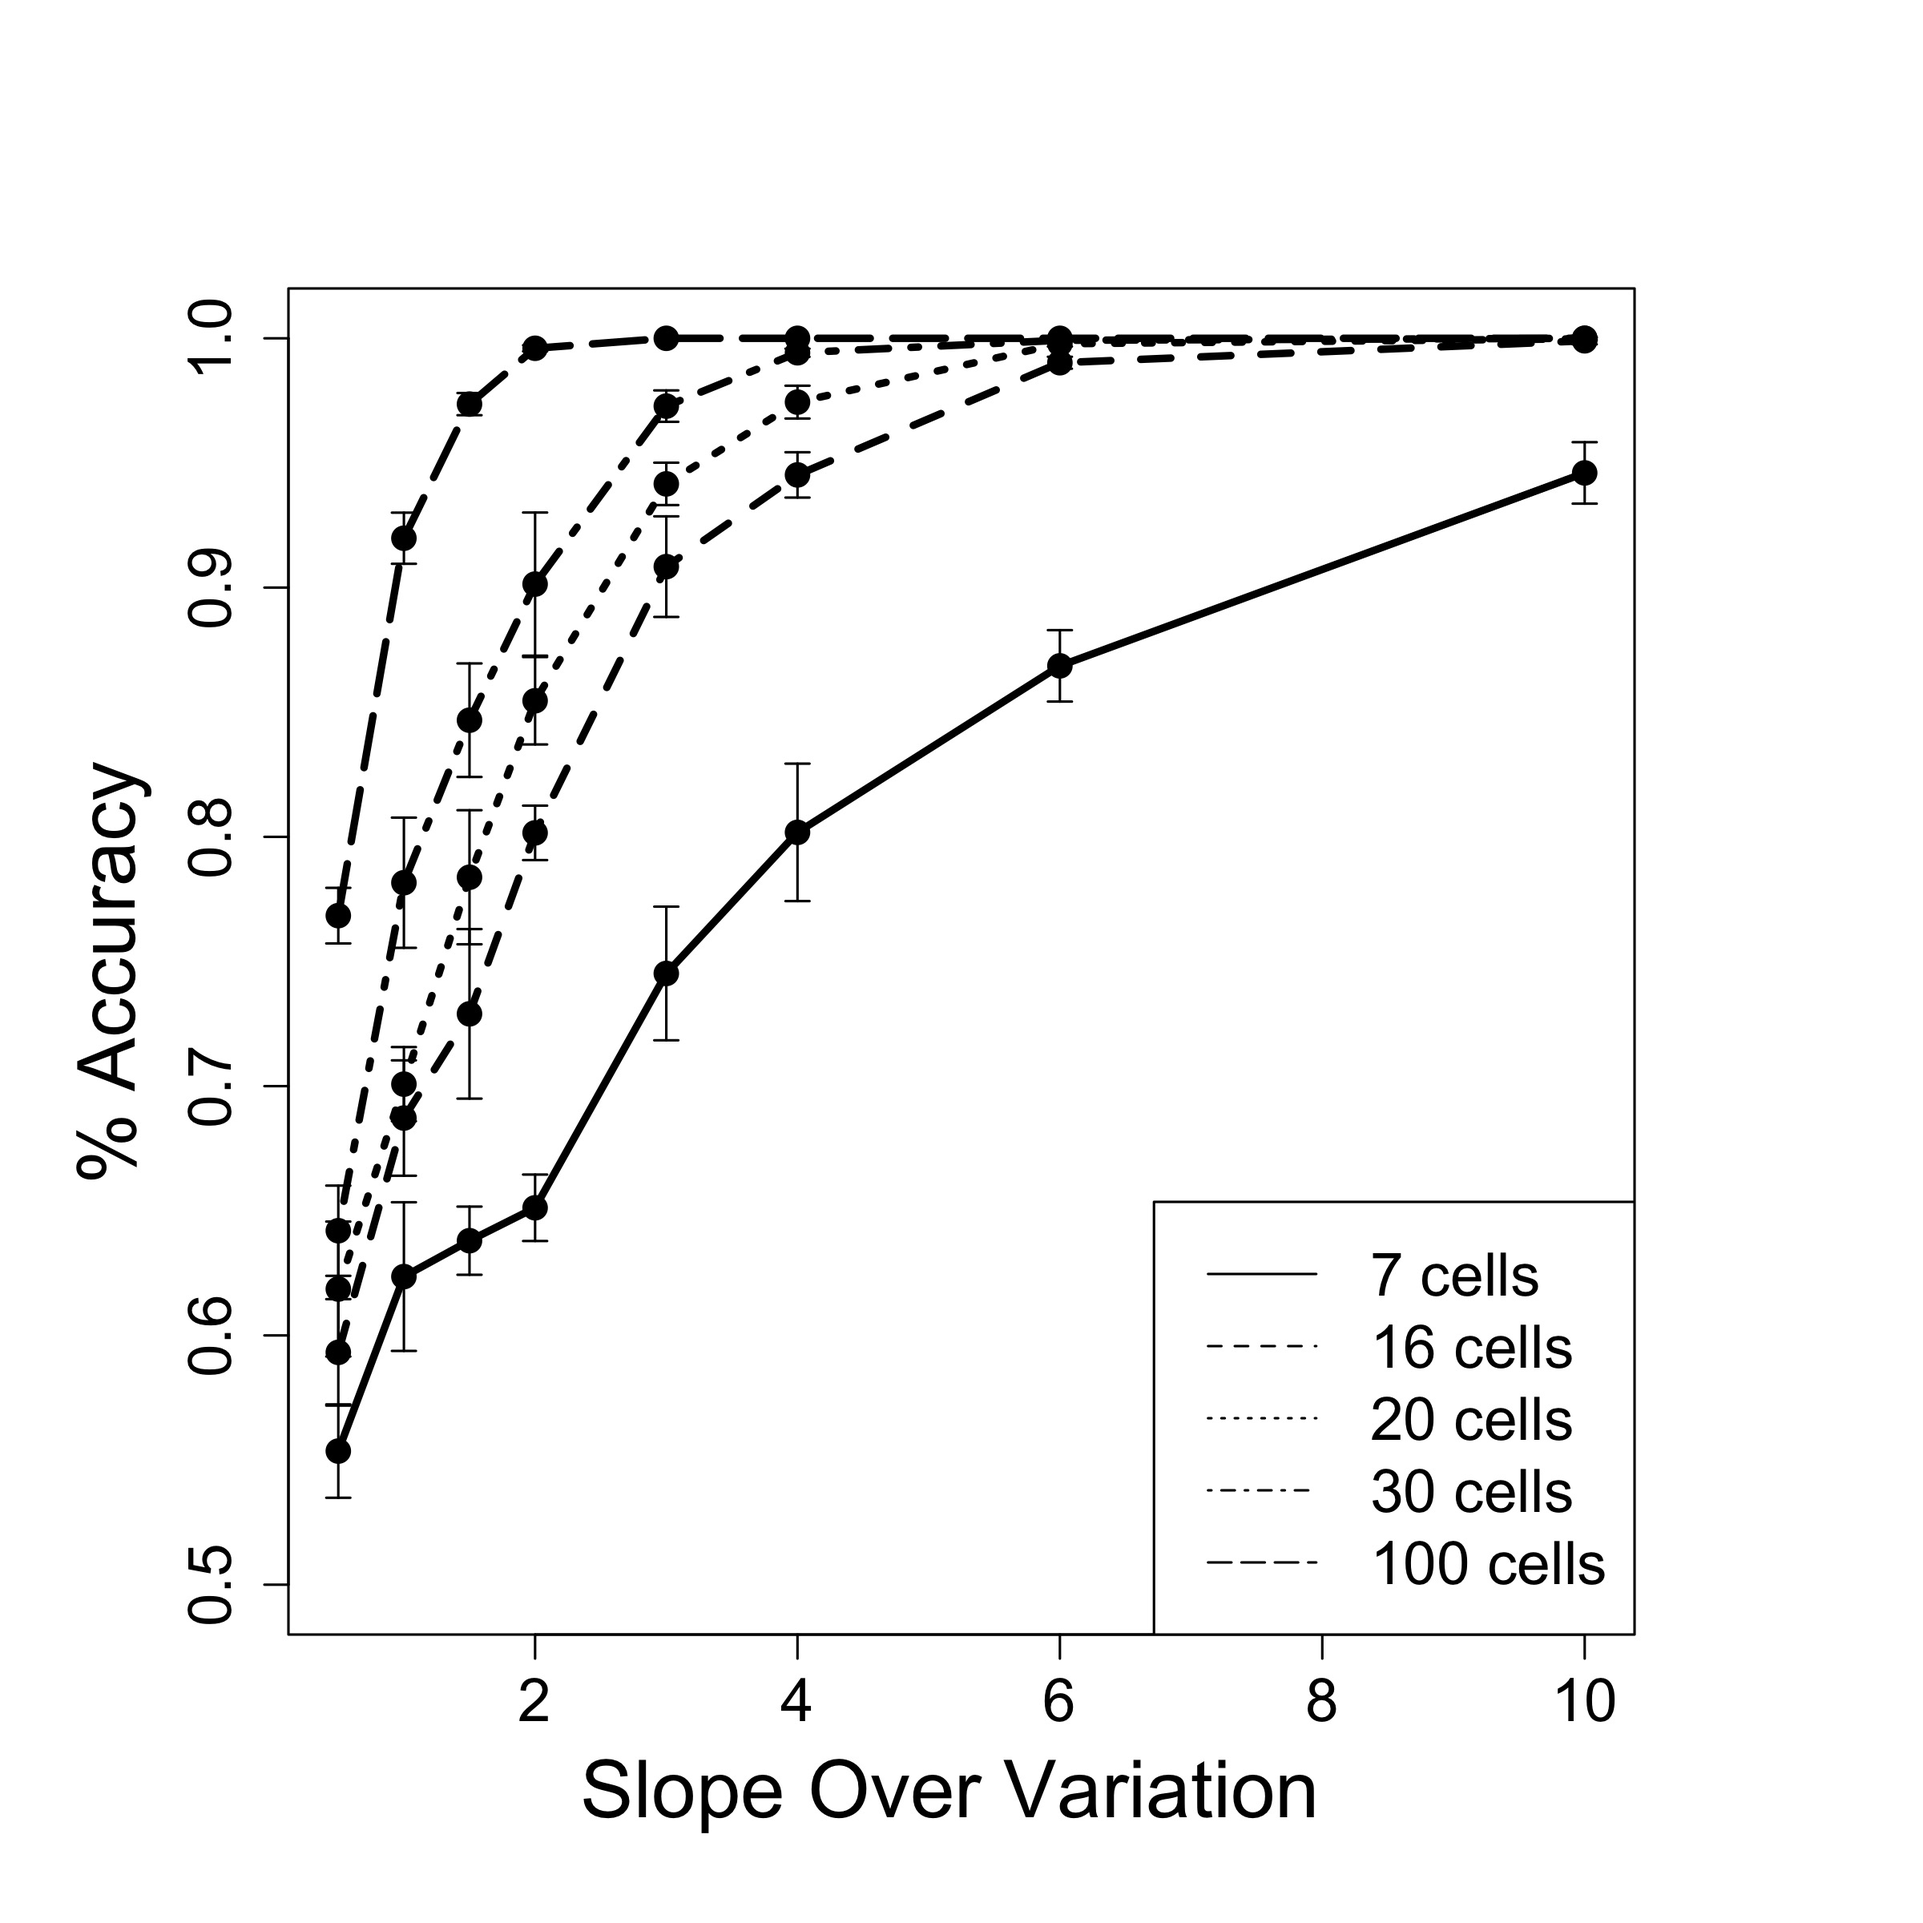
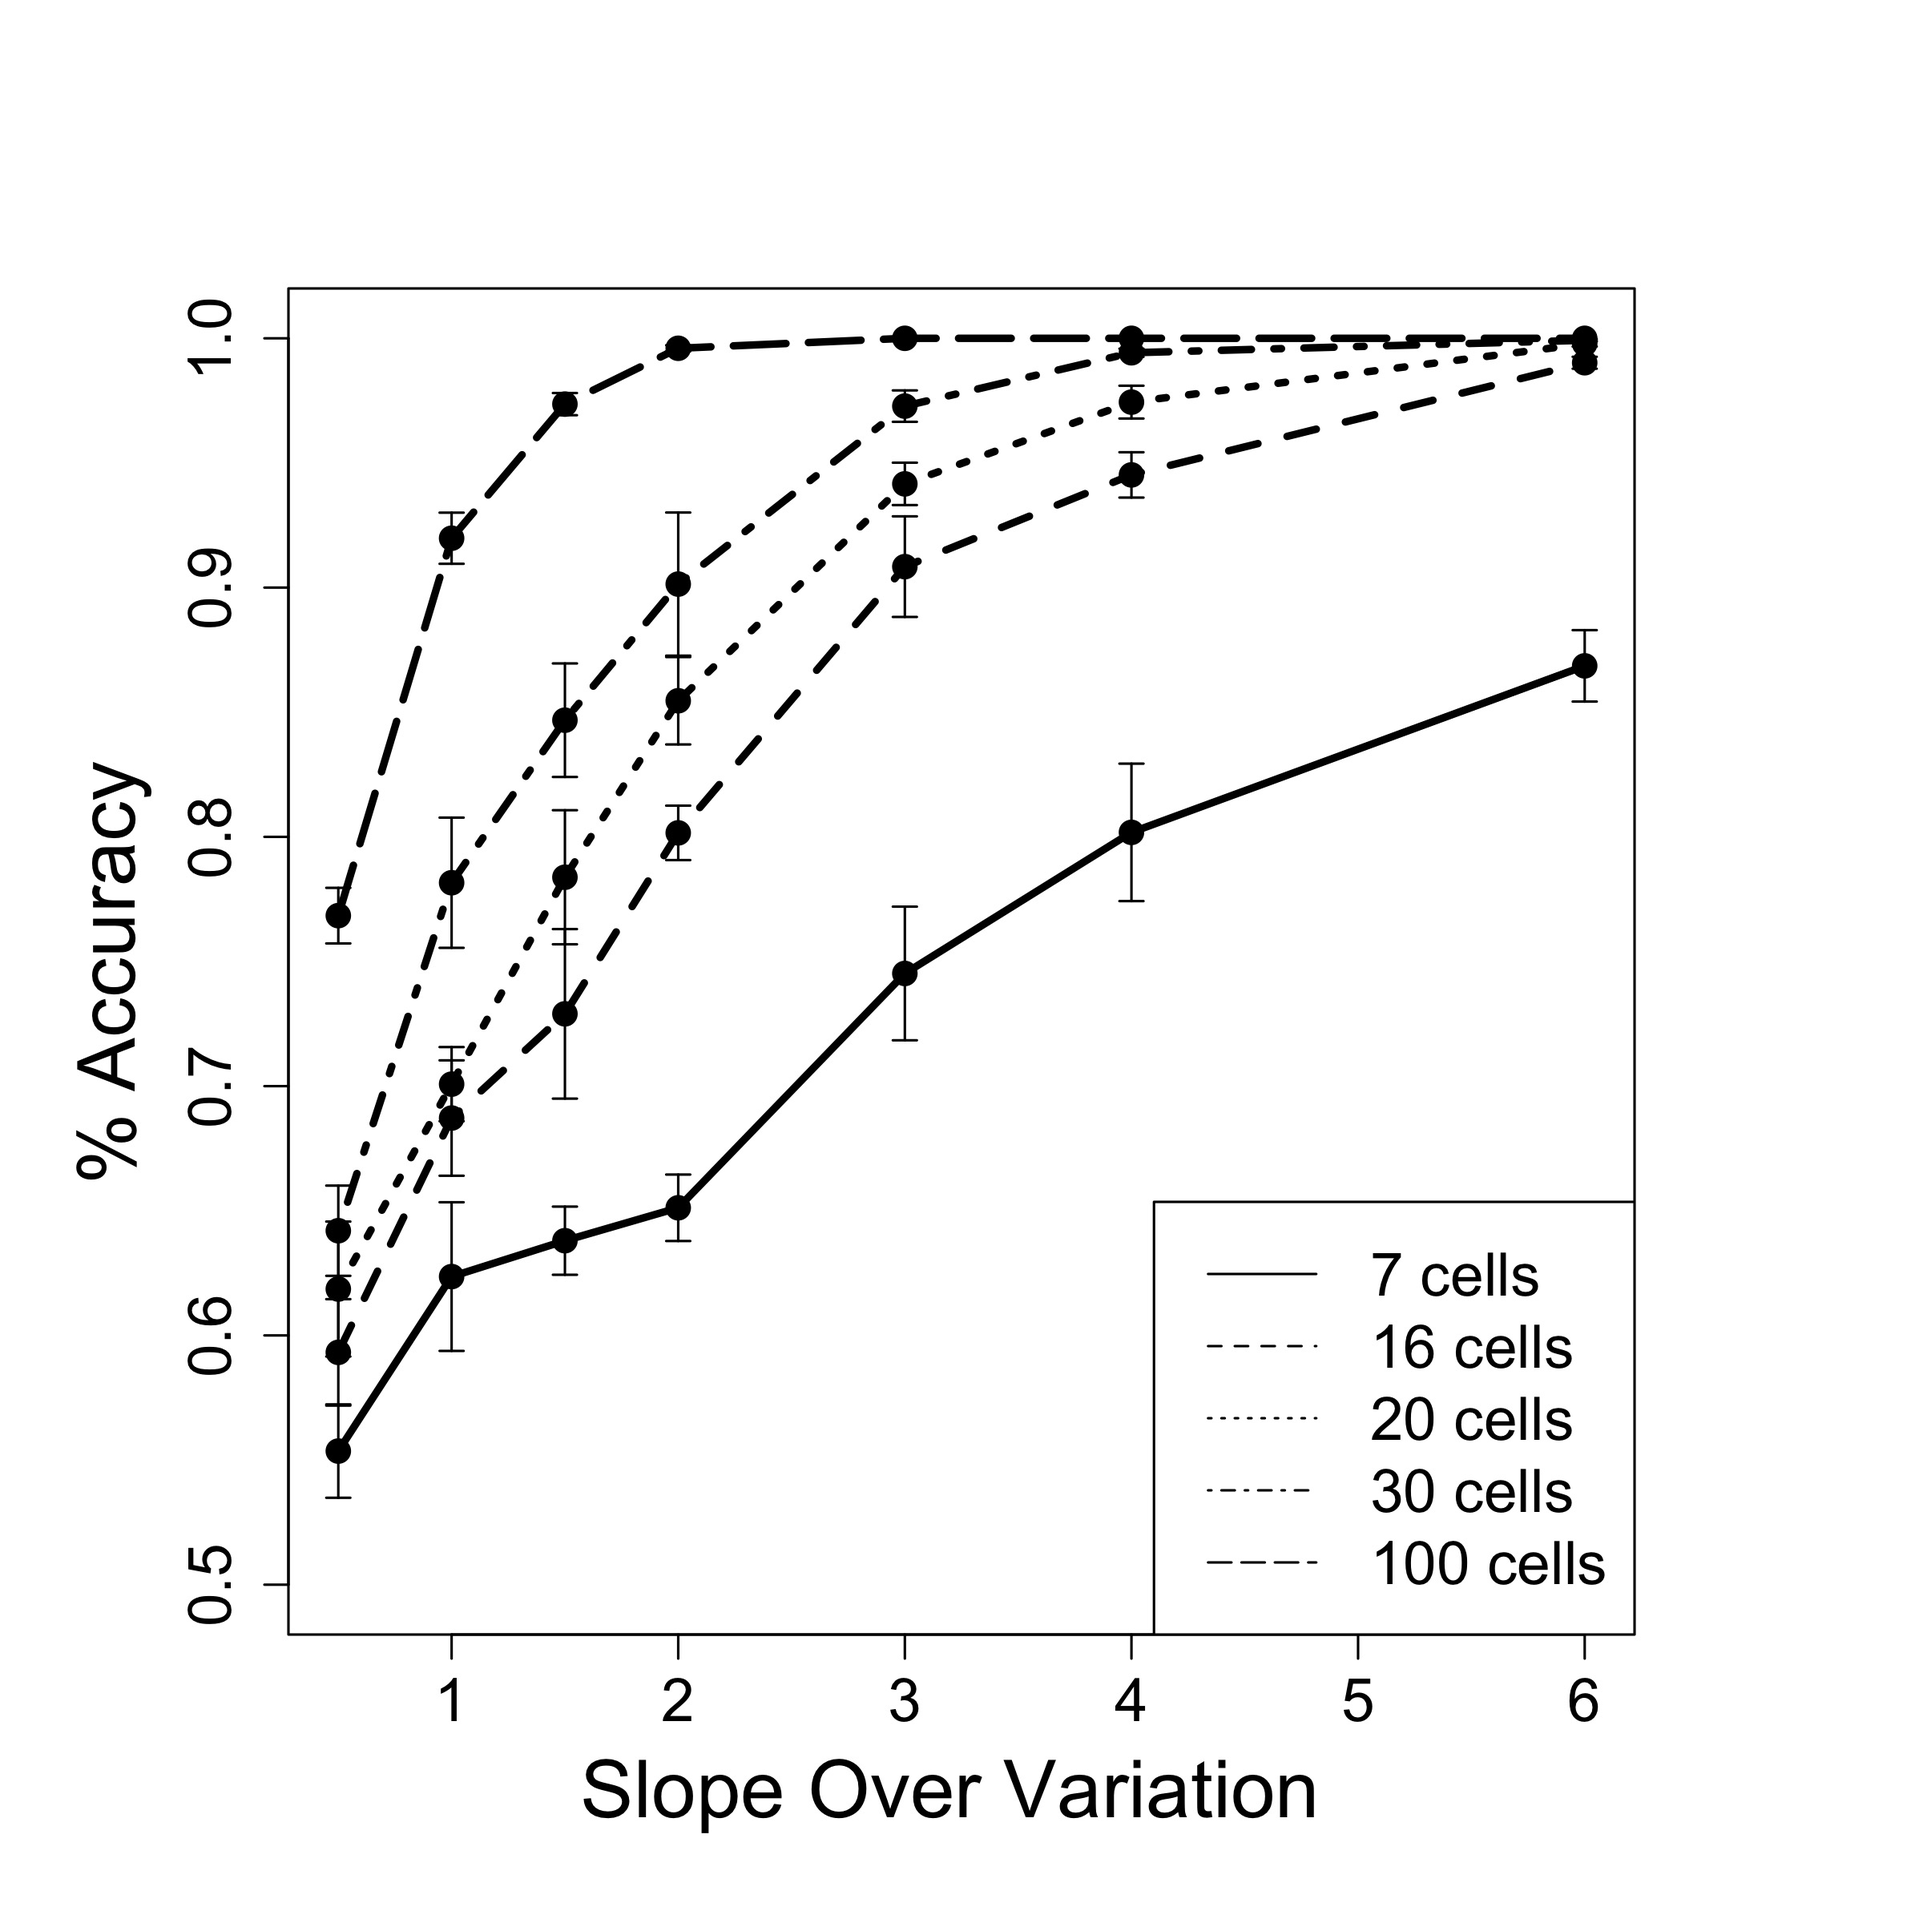
updating figure 3

diff --git a/dataParser.py b/dataParser.py
@@ -257,10 +257,10 @@ def parse_fig3A(cells):
     slope_var_3 = find_mean_fig3(sv_3, cells, slope_over_var=3)
     slope_var_4 = find_mean_fig3(sv_4, cells, slope_over_var=4)
     slope_var_6 = find_mean_fig3(sv_6, cells, slope_over_var=6)
-    slope_var_10 = find_mean_fig3(sv_10, cells, slope_over_var=10)
+    # slope_var_10 = find_mean_fig3(sv_10, cells, slope_over_var=10)
 
     df = pd.concat([slope_var_0p5,slope_var_1,slope_var_1p5,slope_var_2,slope_var_3,
-                         slope_var_4, slope_var_6, slope_var_10])
+                         slope_var_4, slope_var_6])
     df.reset_index(drop=True, inplace=True)
     return(df)
 
@@ -271,21 +271,26 @@ def parse_fig3B(cells):
 
     sv_0p5 = pd.read_csv("data/Fig3B/slope_var_0p5")
     sv_1 = pd.read_csv("data/Fig3B/slope_var_1")
+    sv_1p5 = pd.read_csv("data/Fig3B/slope_var_1p5")
     sv_2 = pd.read_csv("data/Fig3B/slope_var_2")
+    sv_3 = pd.read_csv("data/Fig3B/slope_var_3")
     sv_4 = pd.read_csv("data/Fig3B/slope_var_4")
     sv_6 = pd.read_csv("data/Fig3B/slope_var_6")
     sv_10 = pd.read_csv("data/Fig3B/slope_var_10")
 
     slope_var_0p5 = find_mean_fig3(sv_0p5, cells, slope_over_var=.5)
     slope_var_1 = find_mean_fig3(sv_1, cells, slope_over_var=1)
+    slope_var_1p5 = find_mean_fig3(sv_1p5, cells, slope_over_var=1.5)
     slope_var_2 = find_mean_fig3(sv_2, cells, slope_over_var=2)
+    slope_var_3 = find_mean_fig3(sv_3, cells, slope_over_var=3)
     slope_var_4 = find_mean_fig3(sv_4, cells, slope_over_var=4)
     slope_var_6 = find_mean_fig3(sv_6, cells, slope_over_var=6)
-    slope_var_10 = find_mean_fig3(sv_10, cells, slope_over_var=10)
+    # slope_var_10 = find_mean_fig3(sv_10, cells, slope_over_var=10)
 
-    df = pd.concat([slope_var_0p5,slope_var_1,slope_var_2,slope_var_4, slope_var_6, slope_var_10])
+    df = pd.concat([slope_var_0p5,slope_var_1,slope_var_1p5,slope_var_2,slope_var_3,slope_var_4, slope_var_6])
     df.reset_index(drop=True, inplace=True)
     return(df)
+
 
 def parse_supplemtal2():
     df = pd.read_csv("data/SupFig2/LungMap72Cell.txt", sep="\t", index_col="Uniprot_ID")
